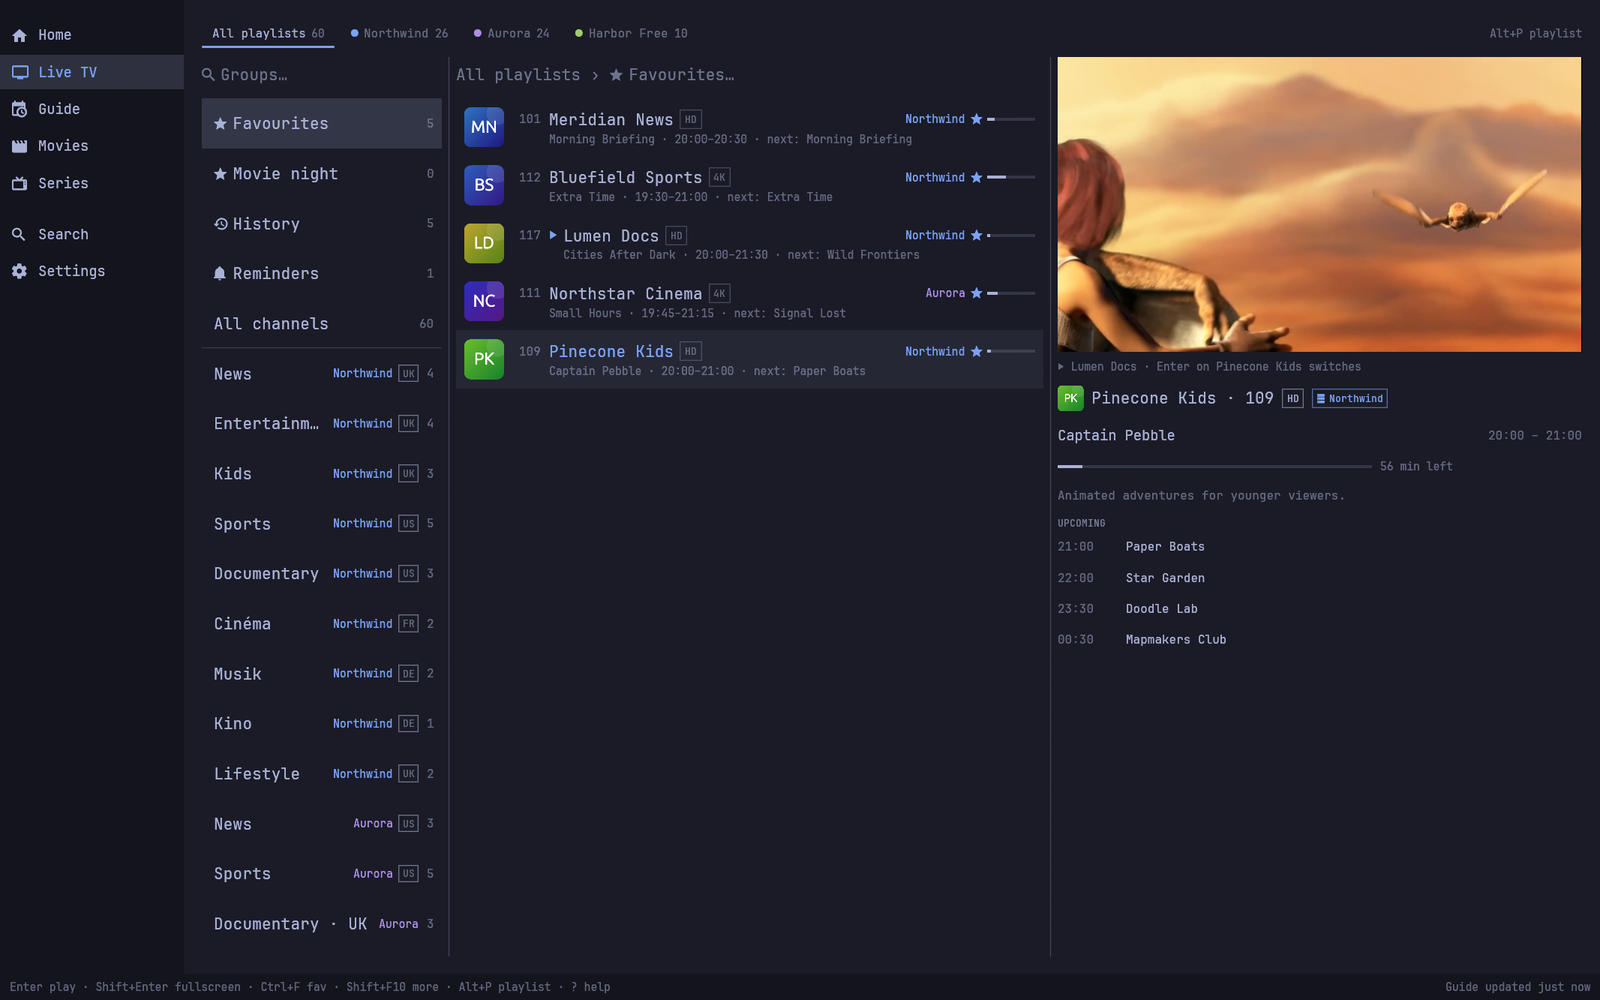
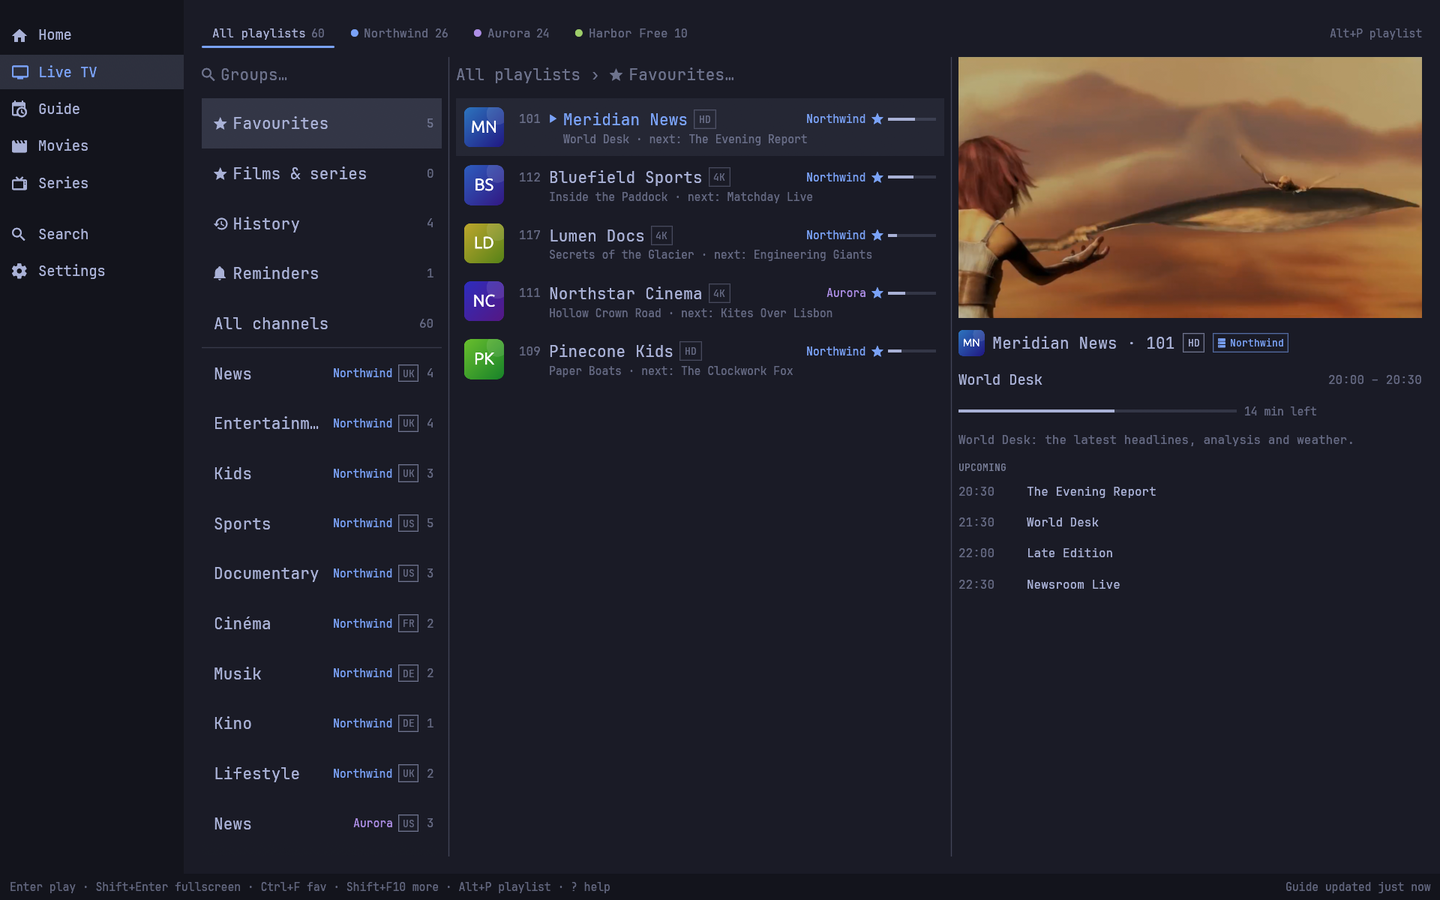
Screenshots: review fixes (HD channels in shots, timed news titles, series page, lookalike names)
Live and half-screen shots play an HD channel and keep focus on it, so the badge
matches what plays; the player and pop-out use HD channels too. News titles follow
the clock and no programme runs twice in a row. The hero is taken at 1440x900 to
stay legible at README width. The detail shot is a series page (Gullhaven) with its
copies and episodes. Plots lose the 'invented' note, the titles list is renamed to
'Films & series', two names that resembled real titles are changed, and the script
runs pngquant when installed.

diff --git a/examples/demo_profile.rs b/examples/demo_profile.rs
@@ -188,7 +188,7 @@ const HARBOR_LIVE: Lineup = &[
 
 /// (title, year, genre line, minutes): the movie catalogue.
 const MOVIES: &[(&str, u16, &str, u32)] = &[
-    ("The Lighthouse Keeper", 2019, "Drama, Mystery", 118),
+    ("The Keeper of Wren Point", 2019, "Drama, Mystery", 118),
     ("Midnight Orchard", 2021, "Thriller", 104),
     ("Paper Satellites", 2018, "Science Fiction", 126),
     ("Glass Harbour", 2022, "Crime, Drama", 111),
@@ -254,7 +254,7 @@ const AURORA_MOVIES: VodLineup = &[
 
 /// (title, year, seasons, episodes per season, genre).
 const SERIES: &[(&str, u16, u32, u32, &str)] = &[
-    ("Harbour Lights", 2022, 2, 6, "Drama"),
+    ("Gullhaven", 2022, 2, 6, "Drama"),
     ("The Cartographers", 2021, 1, 8, "Adventure"),
     ("Static Bloom", 2023, 2, 5, "Science Fiction"),
     ("Fernwood Station", 2019, 3, 6, "Comedy"),
@@ -330,7 +330,7 @@ fn programmes(g: Genre) -> &'static [&'static str] {
             "Cities After Dark",
         ],
         Genre::Cinema => &[
-            "The Lighthouse Keeper",
+            "The Keeper of Wren Point",
             "Copper Sky",
             "Small Hours",
             "Tin Moon",
@@ -665,6 +665,7 @@ fn guide(day_start: Timestamp) -> (String, Vec<Prog>) {
     for (name, genre, _) in BRANDS {
         let mut rng = Rng::new(name);
         let titles = programmes(*genre);
+        let mut prev = String::new();
         let mut t = day_start - 18 * 3600;
         let end = day_start + 2 * 86_400 + 6 * 3600;
         while t < end {
@@ -673,7 +674,8 @@ fn guide(day_start: Timestamp) -> (String, Vec<Prog>) {
                 Genre::News | Genre::Weather => 30 * (1 + rng.below(2) as i64),
                 _ => 30 * (1 + rng.below(3) as i64),
             } * 60;
-            let title = rng.pick(titles).to_string();
+            let title = programme_title(&mut rng, *genre, titles, (t - day_start).rem_euclid(86_400) / 3600, &prev);
+            prev.clone_from(&title);
             let _ = writeln!(
                 s,
                 "  <programme start=\"{}\" stop=\"{}\" channel=\"{}.demo\"><title>{}</title><desc>{}</desc></programme>",
@@ -689,6 +691,30 @@ fn guide(day_start: Timestamp) -> (String, Vec<Prog>) {
     }
     s.push_str("</tv>\n");
     (s, progs)
+}
+
+/// A title for a programme starting at `hour` (local): news follows the clock, and no title
+/// runs twice in a row.
+fn programme_title(rng: &mut Rng, genre: Genre, titles: &[&str], hour: i64, prev: &str) -> String {
+    let slot: &[&str] = match (genre, hour) {
+        (Genre::News, 5..=9) => &["Morning Briefing"],
+        (Genre::News, 12..=13) => &["The Midday Report"],
+        (Genre::News, 18..=20) => &["The Evening Report"],
+        (Genre::News, 22..=23 | 0..=4) => &["Late Edition", "Newsroom Live"],
+        (Genre::News, 21) => &["Week in Review", "World Desk"],
+        (Genre::News, _) => &["World Desk", "Market Watch", "Newsroom Live"],
+        _ => titles,
+    };
+    let fresh: Vec<&str> = slot.iter().copied().filter(|t| *t != prev).collect();
+    let fallback: Vec<&str> = ["World Desk", "Newsroom Live"].into_iter().filter(|t| *t != prev).collect();
+    let pool = if !fresh.is_empty() {
+        fresh
+    } else if genre == Genre::News {
+        fallback
+    } else {
+        slot.to_vec()
+    };
+    rng.pick(&pool).to_string()
 }
 
 // --------------------------------------------------------------------------------- build
@@ -843,7 +869,7 @@ fn refs(c: &Connection) -> Result<String> {
         let _ = writeln!(out, "{var}_ID={id}");
     }
     for (var, source, name) in
-        [("PLAY_DOCS", "Northwind", "Lumen Docs"), ("PLAY_SPORTS", "Aurora", "Goalpost TV"), ("PLAY_NEWS", "Northwind", "Meridian News")]
+        [("PLAY_DOCS", "Northwind", "Polar Nature"), ("PLAY_SPORTS", "Aurora", "Summit Sports"), ("PLAY_NEWS", "Northwind", "Meridian News")]
     {
         let (id, key): (i64, String) = c.query_row(
             "SELECT c.source_id, c.key FROM channel c JOIN source s ON s.id = c.source_id WHERE s.name = ?1 AND c.name LIKE ?2 || '%' ORDER BY c.id",
@@ -909,7 +935,7 @@ fn details(c: &mut Connection, now: Timestamp) -> tuner::error::Result<()> {
         let person = |rng: &mut Rng| format!("{} {}", rng.pick(FIRST_NAMES), rng.pick(LAST_NAMES));
         let cast = (0..4).map(|_| person(&mut rng)).collect::<Vec<_>>().join(", ");
         let d = MovieDetails {
-            plot: Some(movie_plot(title, genre)),
+            plot: Some(movie_plot(genre)),
             genre: Some(genre.into()),
             cast: Some(cast),
             director: Some(person(&mut rng)),
@@ -921,6 +947,8 @@ fn details(c: &mut Connection, now: Timestamp) -> tuner::error::Result<()> {
         };
         tuner::store::import::store_movie_details(c, MovieId(id), &d, now)?;
     }
+    // M3U series have no details path: `store_series_details` is the Xtream one, which
+    // replaces the episode list and carries no genre, so plots and backdrops go in directly.
     for (title, _, _, _, genre) in SERIES {
         c.execute(
             "UPDATE series SET plot = ?1, genre = ?2, backdrop = ?3 WHERE name LIKE '%' || ?4 || '%'",
@@ -930,7 +958,7 @@ fn details(c: &mut Connection, now: Timestamp) -> tuner::error::Result<()> {
     Ok(())
 }
 
-fn movie_plot(title: &str, genre: &str) -> String {
+fn movie_plot(genre: &str) -> String {
     let lead = match genre.split(',').next().unwrap_or("") {
         "Drama" | "Music" => "A family secret surfaces one winter and changes three lives for good.",
         "Thriller" | "Action" => "With forty-eight hours on the clock, an unlikely team chases a signal across the city.",
@@ -946,11 +974,11 @@ fn movie_plot(title: &str, genre: &str) -> String {
         "Western" => "A drifter and a telegraph operator stand between a town and a copper baron.",
         _ => "An unforgettable story, told with warmth and wit.",
     };
-    format!("{lead} ({title} is invented demo content.)")
+    lead.into()
 }
 
 fn series_plot(title: &str) -> String {
-    format!("Season after season, the people of {title} keep each other's secrets — until they don't. (Invented demo content.)")
+    format!("Season after season, the people of {title} keep each other's secrets — until they don't.")
 }
 
 /// Favourites, recently watched channels, Continue Watching and one reminder.
@@ -994,11 +1022,11 @@ fn user_data(c: &mut Connection, now: Timestamp, progs: &[Prog]) -> tuner::error
     }
     // titles go in a list of their own: a rail mixing channel tiles and posters leaves a gap
     // under the tiles on Home
-    let night = user::create_fav_list(c, "Movie night", tuner::ui::widgets::glyphs::FAV_LIST)?;
+    let night = user::create_fav_list(c, "Films & series", tuner::ui::widgets::glyphs::FAV_LIST)?;
     let titles = [
-        need(movie(c, north, "Lighthouse Keeper")?, "The Lighthouse Keeper")?,
+        need(movie(c, north, "Keeper of Wren Point")?, "The Keeper of Wren Point")?,
         need(movie(c, aurora, "Quiet Frequencies")?, "Quiet Frequencies")?,
-        need(series(c, north, "Harbour Lights")?, "Harbour Lights")?,
+        need(series(c, north, "Gullhaven")?, "Gullhaven")?,
         need(movie(c, aurora, "Blue Hour Express")?, "Blue Hour Express")?,
         need(movie(c, north, "Copper Sky")?, "Copper Sky")?,
     ];

diff --git a/tests/demo_profile.rs b/tests/demo_profile.rs
@@ -19,9 +19,9 @@ fn demo_profile_builds_a_library_with_stacks() {
     assert_eq!(lib.eligible(ItemKind::Movie).len(), 2, "Harbor Free has no movies");
     assert!(s.channels >= 55 && s.programmes > 1000, "{}", s);
 
-    // "The Lighthouse Keeper": EN + FR in Northwind, 4K EN in Aurora → one stack of three
+    // "The Keeper of Wren Point": EN + FR in Northwind, 4K EN in Aurora → one stack of three
     let movies = &lib.vod.movies;
-    let keeper = movies.iter().position(|m| m.name.contains("Lighthouse Keeper")).expect("movie") as u32;
+    let keeper = movies.iter().position(|m| m.name.contains("Keeper of Wren Point")).expect("movie") as u32;
     let stack = lib.vod.stacks(true).stack_of(keeper).expect("stacked");
     assert_eq!(lib.vod.stacks(true).members(stack).len(), 3);
     assert!(lib.vod.stacks(false).len() >= 2, "series stack too");

diff --git a/README.md b/README.md
@@ -43,7 +43,7 @@ preview playing](docs/screenshots/live.png)
 <td width="50%"><img src="docs/screenshots/stack.png" alt="A stack fanned out"><br><code>Space</code> fans a stack out into its copies, each with its playlist, language and quality.</td>
 </tr>
 <tr>
-<td width="50%"><img src="docs/screenshots/detail.png" alt="Movie page"><br><b>Movie page</b> with its copies: which one plays first, and the others to pick from.</td>
+<td width="50%"><img src="docs/screenshots/detail.png" alt="Series page"><br><b>Series page</b> with its copies: which one plays first, and the others to pick from.</td>
 <td width="50%"><img src="docs/screenshots/player.png" alt="Player with controls"><br><b>Player</b> with the on-screen controls and the volume slider.</td>
 </tr>
 <tr>
